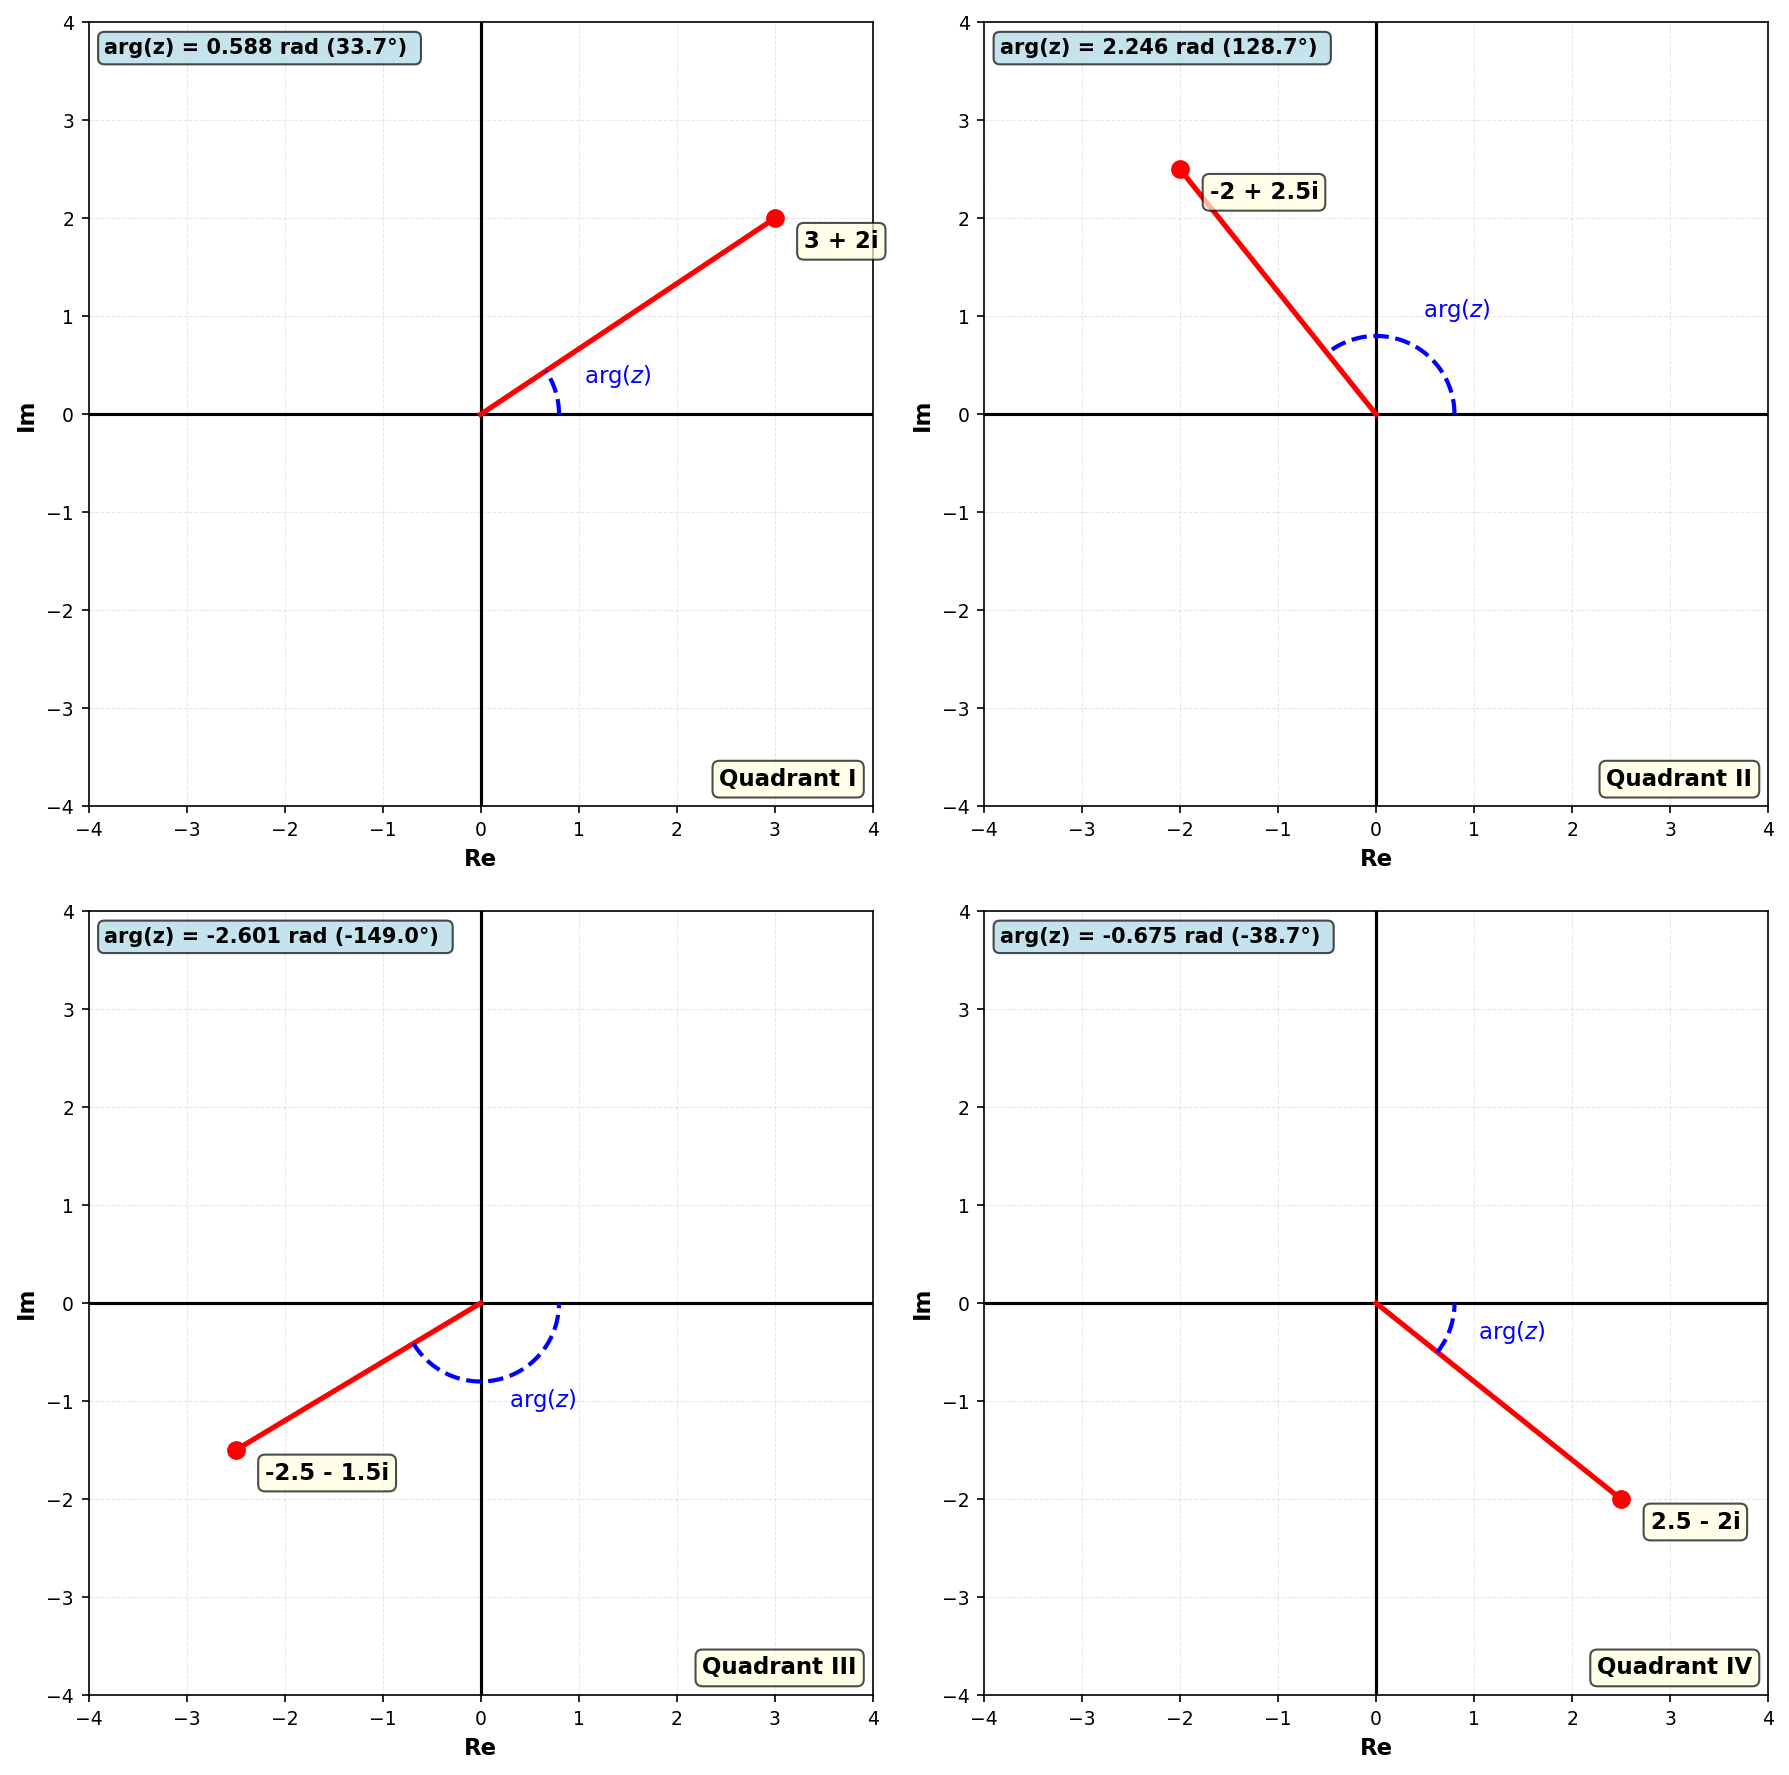
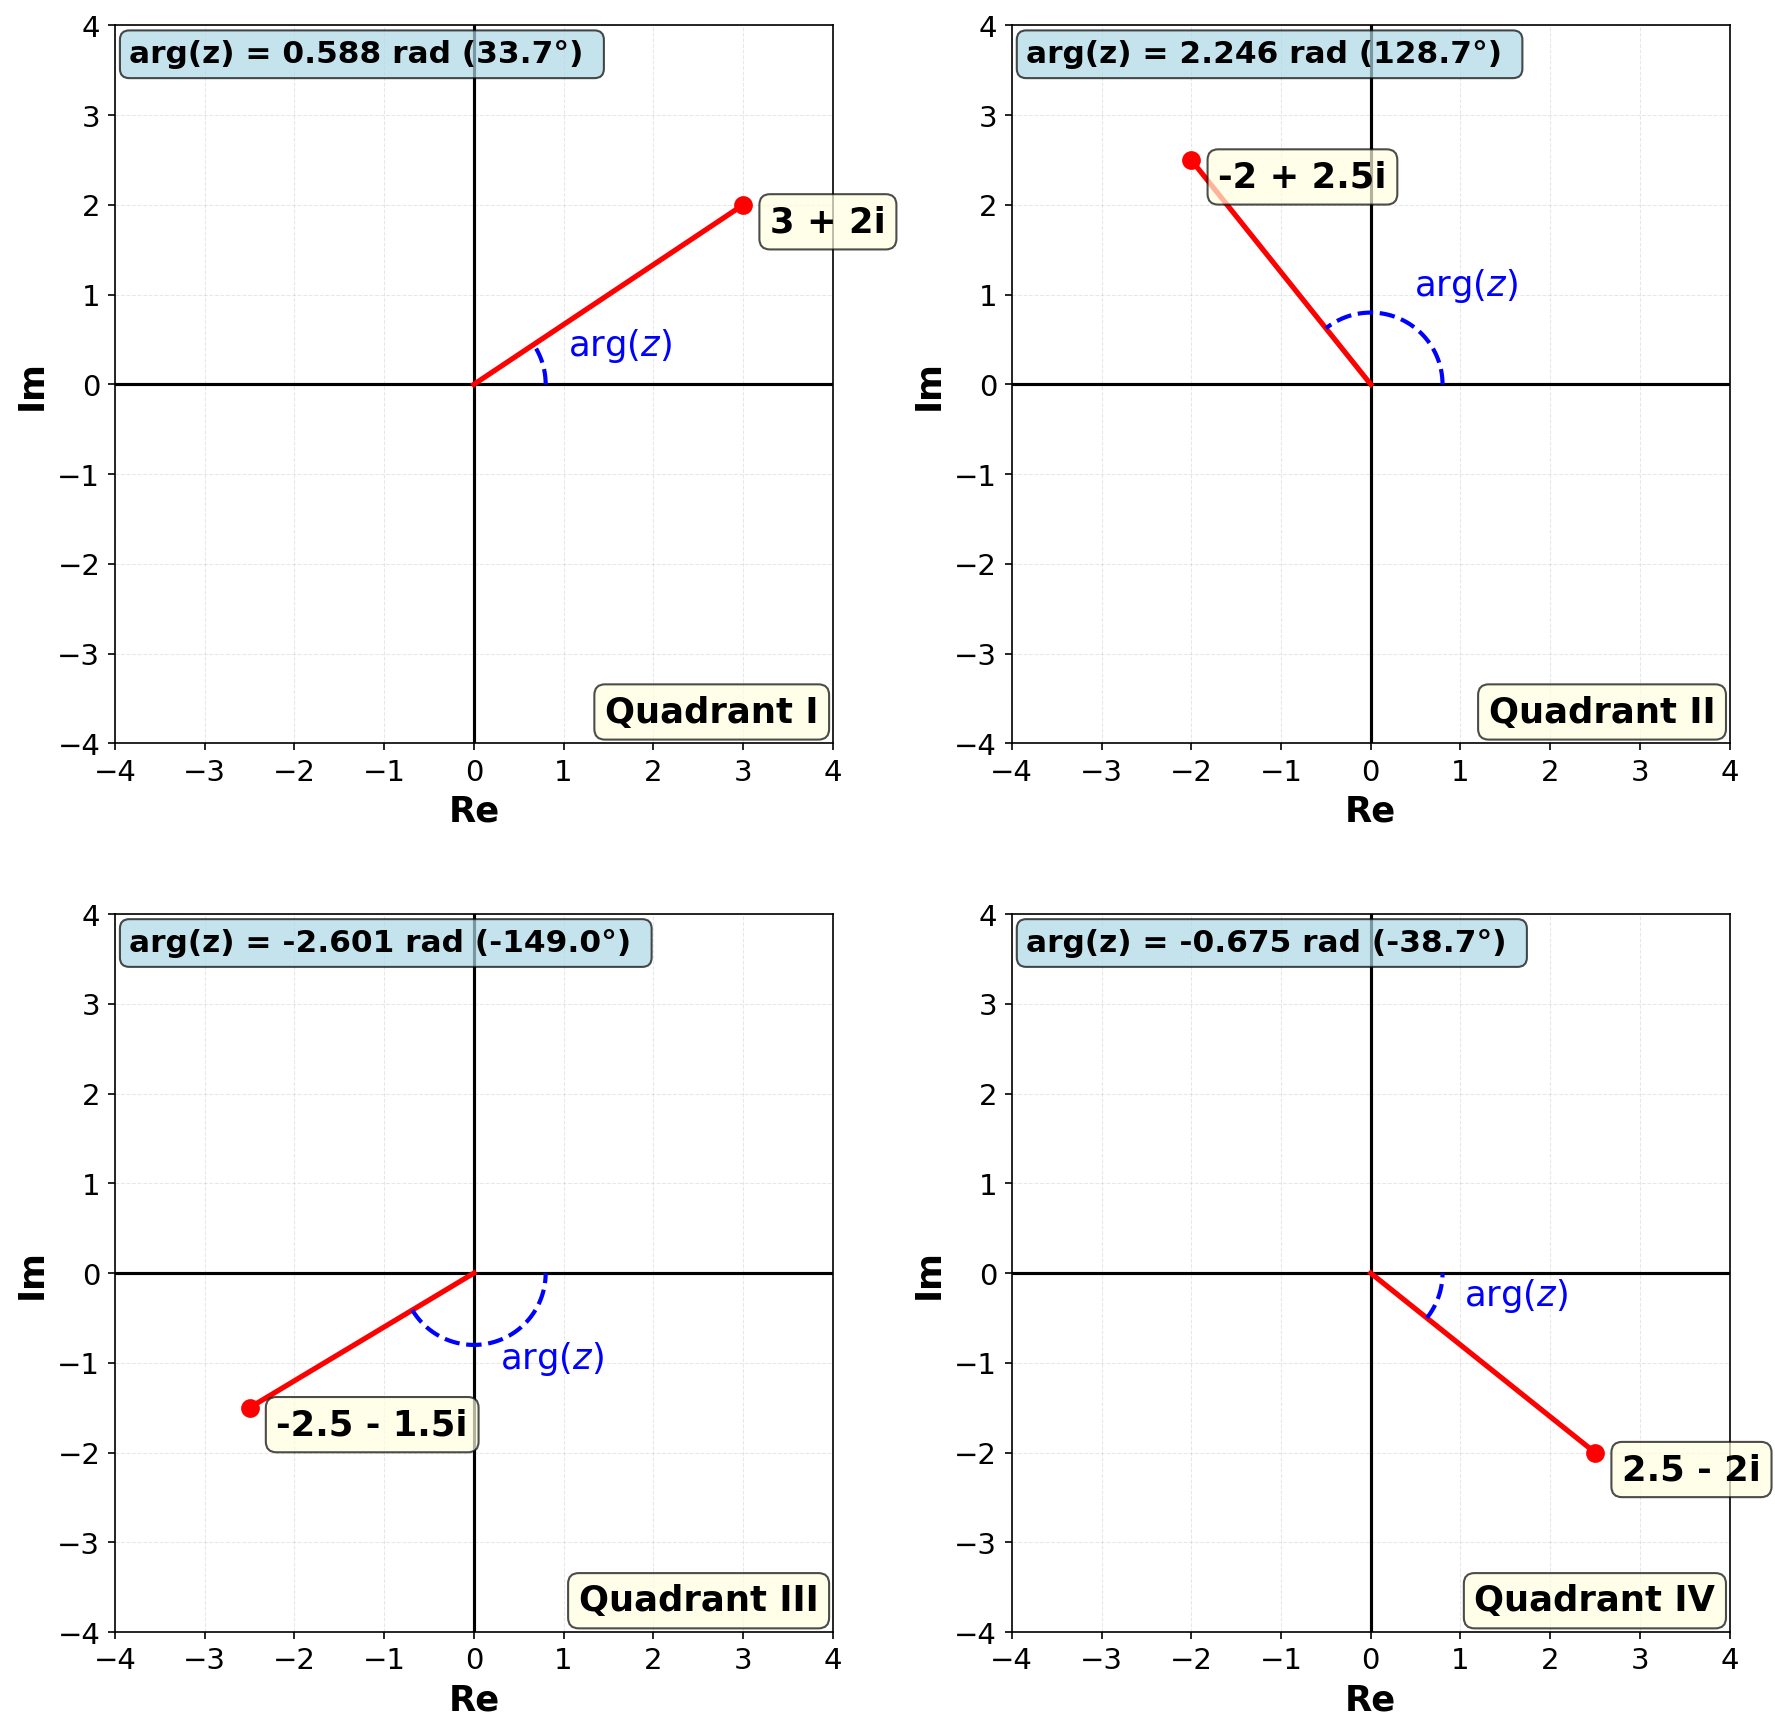
Made text in figure bigger

diff --git a/resources/complex_argument.py b/resources/complex_argument.py
@@ -28,9 +28,9 @@ for idx, (real, imag, label, ax_idx) in enumerate(examples):
     ax.axvline(x=0, color='k', linewidth=1.5)
     
     # Axis labels
-    ax.set_xlabel('Re', fontsize=11, fontweight='bold')
-    ax.set_ylabel('Im', fontsize=11, fontweight='bold')
-    ax.tick_params(labelsize=9)
+    ax.set_xlabel('Re', fontsize=17, fontweight='bold')
+    ax.set_ylabel('Im', fontsize=17, fontweight='bold')
+    ax.tick_params(labelsize=14)
     
     # Draw radius line
     r = np.sqrt(real**2 + imag**2)
@@ -57,21 +57,21 @@ for idx, (real, imag, label, ax_idx) in enumerate(examples):
     else:
         angle_label_x = 1.1 * np.cos(arg_rad / 2)
         angle_label_y = 1.1 * np.sin(arg_rad / 2)
-    ax.text(angle_label_x, angle_label_y, r'$\arg(z)$', fontsize=11, color='blue', fontweight='bold')
+    ax.text(angle_label_x, angle_label_y, r'$\arg(z)$', fontsize=17, color='blue', fontweight='bold')
     
     # Label the point
-    ax.text(real + 0.3, imag - 0.3, label, fontsize=11, fontweight='bold',
+    ax.text(real + 0.3, imag - 0.3, label, fontsize=17, fontweight='bold',
             bbox=dict(boxstyle='round', facecolor='lightyellow', alpha=0.7))
     
     # Show computed argument
     arg_text = f'arg(z) = {arg_rad:.3f} rad ({arg_deg:.1f}°) '
-    ax.text(0.02, 0.98, arg_text, transform=ax.transAxes, fontsize=10, fontweight='bold',
+    ax.text(0.02, 0.98, arg_text, transform=ax.transAxes, fontsize=15, fontweight='bold',
             bbox=dict(boxstyle='round', facecolor='lightblue', alpha=0.7),
             verticalalignment='top')
     
     # Show quadrant label
     quadrant_labels = ['Quadrant I', 'Quadrant II', 'Quadrant III', 'Quadrant IV']
-    ax.text(0.98, 0.02, quadrant_labels[ax_idx], transform=ax.transAxes, fontsize=11, fontweight='bold',
+    ax.text(0.98, 0.02, quadrant_labels[ax_idx], transform=ax.transAxes, fontsize=17, fontweight='bold',
             bbox=dict(boxstyle='round', facecolor='lightyellow', alpha=0.7),
             verticalalignment='bottom', horizontalalignment='right')
 